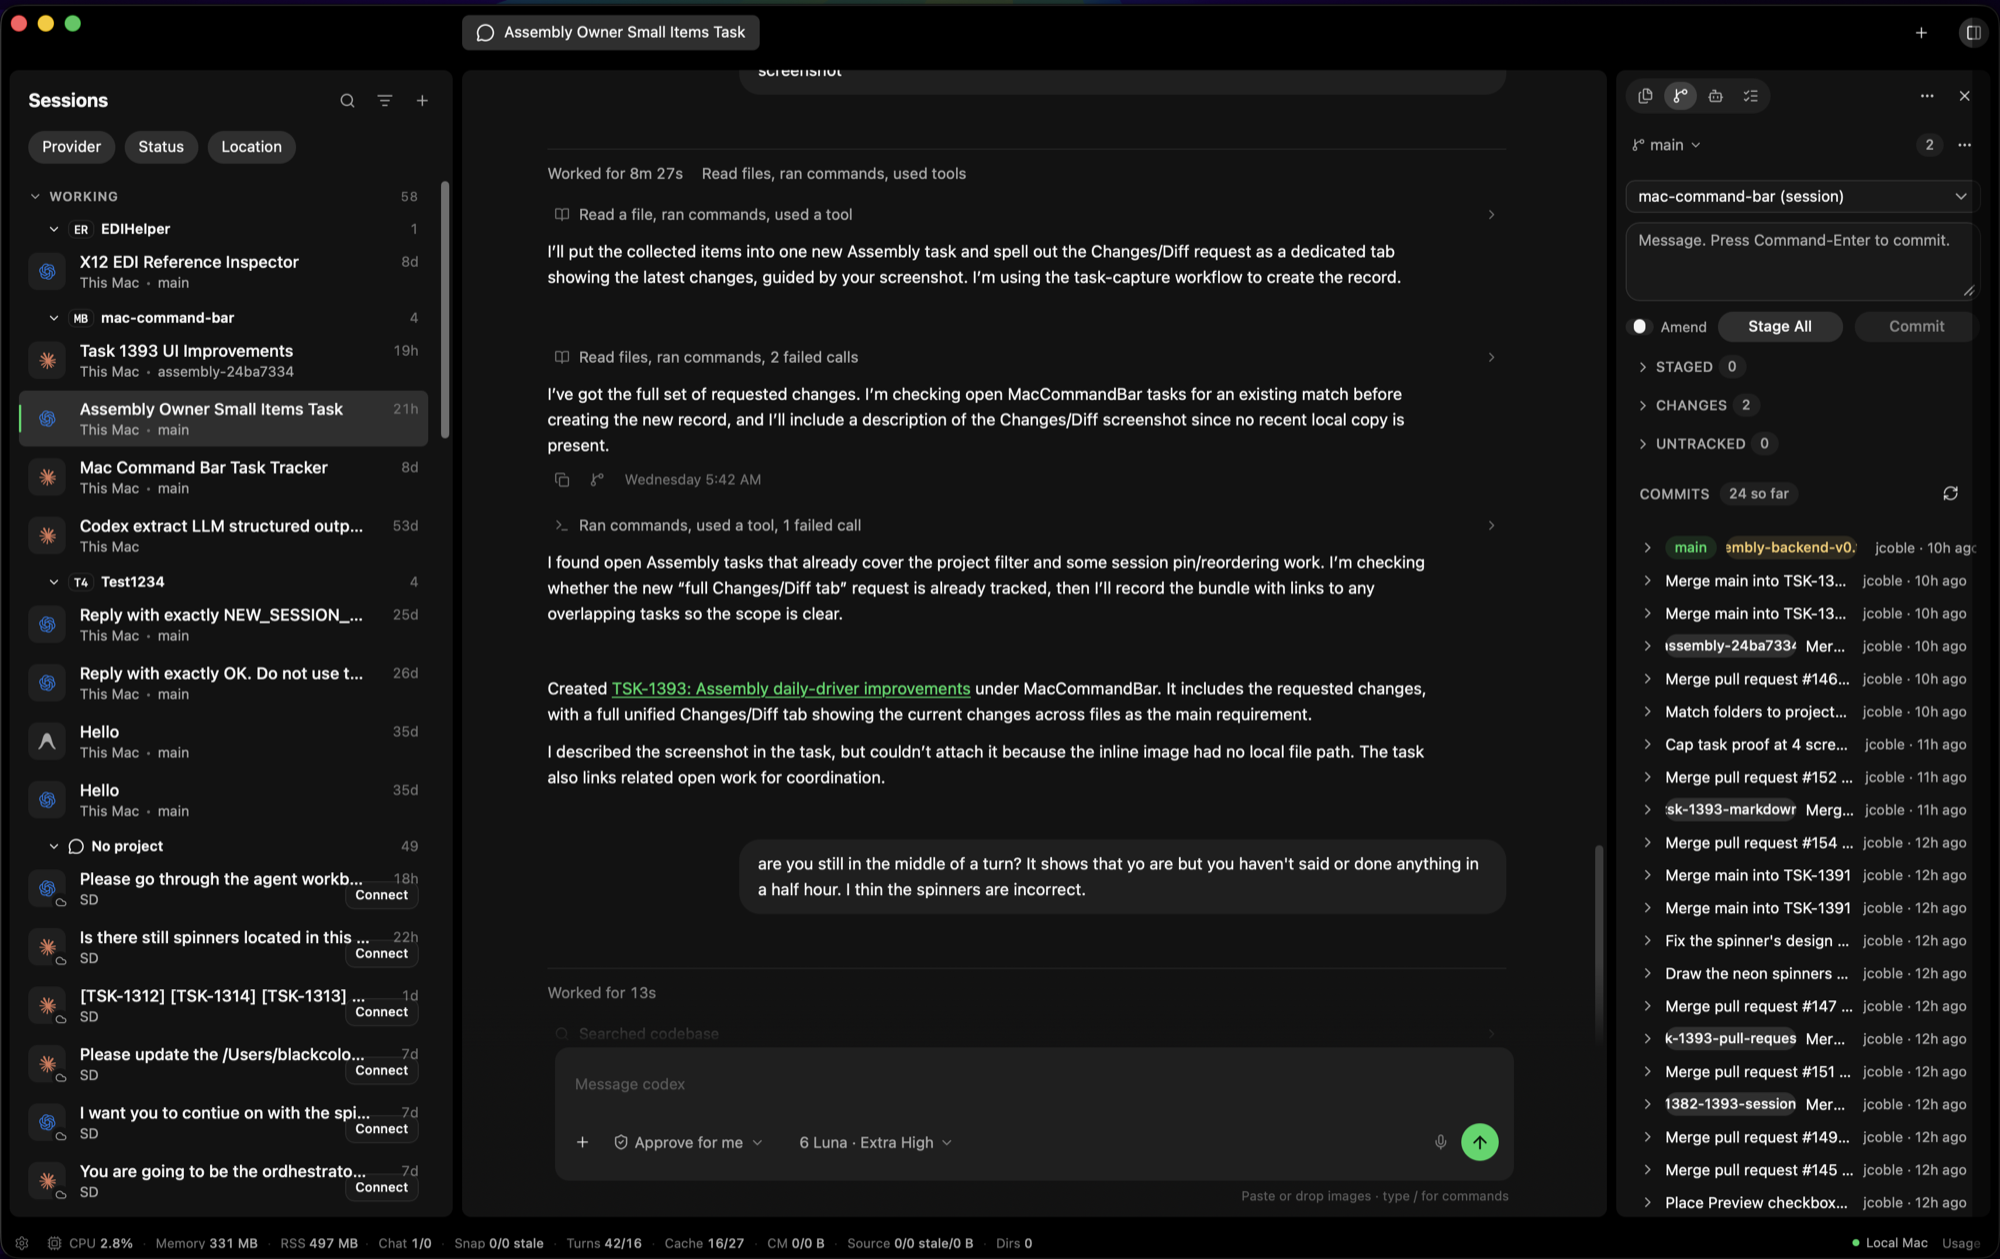
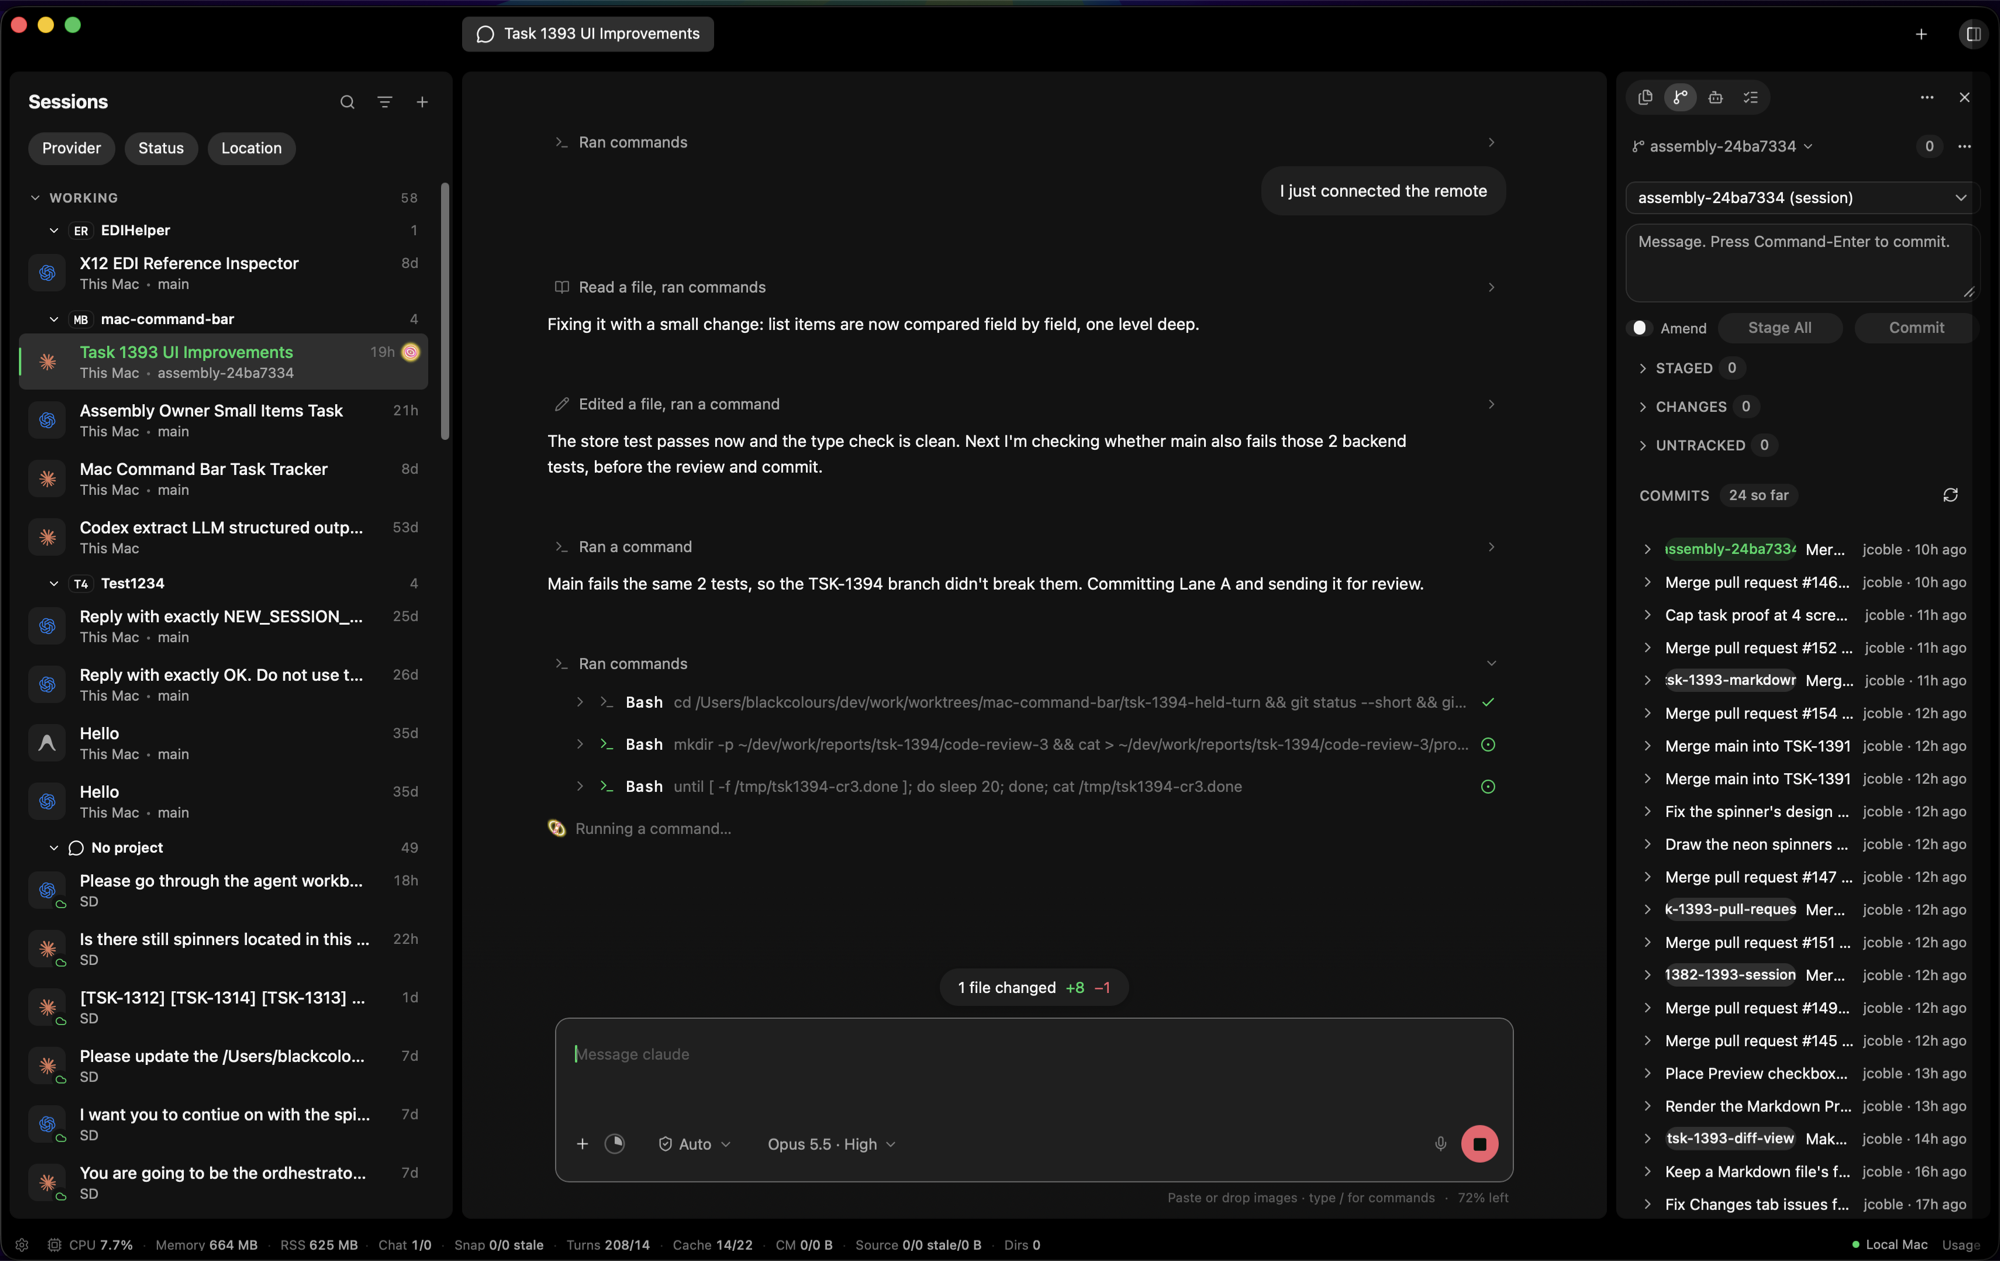
Show an agent at work in the README screenshot
Architecture: unchanged

diff --git a/README.md b/README.md
@@ -10,7 +10,7 @@ It runs on your Mac, or you can keep everything on a remote Linux machine (proje
 
 [Releases](https://github.com/jcoble/mac-command-bar/releases) · [Issues](https://github.com/jcoble/mac-command-bar/issues) · [Architecture guide](main-architecture-explained.html) · [Contributing](CONTRIBUTING.md)
 
-![Assembly: sessions grouped by project on the left, an agent conversation in the center, Source Control on the right](docs/images/assembly-main-window.png)
+![Assembly: sessions grouped by project on the left, an agent working live in the center with its tool calls, Source Control on the right](docs/images/assembly-main-window.png)
 <!-- screenshot: Supercharged editor with reference counts and the problems list -->
 <!-- screenshot: pull request workspace with the side-by-side diff -->
 <!-- screenshot: Settings → Connections with a remote machine connected -->
